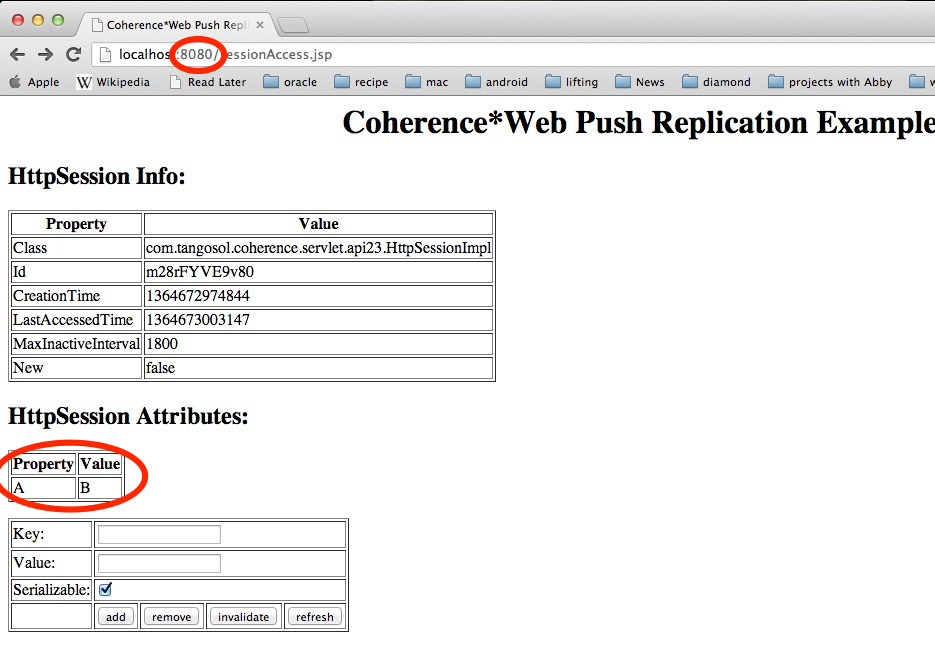
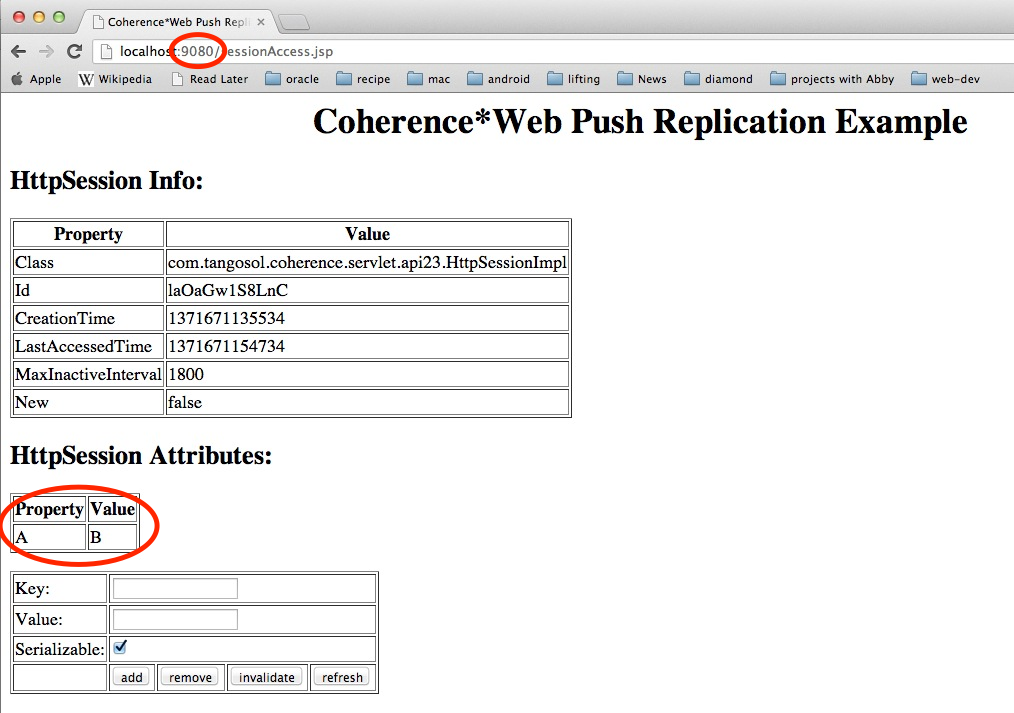
Cleanup the documentation and change the ports to even less standard ports for the test

Changed region(s): [[0.0, 0.2424, 0.5893, 1.0], [0.0, 0.0, 1.0, 0.2121]]

diff --git a/coherence-pushreplicationpattern-web-examples/webapp-tests/src/test/java/com/oracle/coherence/patterns/pushreplication/examples/web/FunctionalTest.java b/coherence-pushreplicationpattern-web-examples/webapp-tests/src/test/java/com/oracle/coherence/patterns/pushreplication/examples/web/FunctionalTest.java
@@ -141,7 +141,7 @@ public class FunctionalTest
 
             // Make initial request to siteA and add a value to the session
             WebResponse response = DeferredHelper.ensure(new DeferredWebResponse(wc,
-                                                                                 "http://localhost:8080/sessionAccess.jsp"),
+                                                                                 "http://localhost:9080/sessionAccess.jsp"),
                                                          60,
                                                          TimeUnit.SECONDS);
 
@@ -160,7 +160,7 @@ public class FunctionalTest
             // Now make a request to the siteB, validate our session data is there and add another value
             DeferredAssert.assertThat("First set of session variables",
                                       new DeferredRowCount(wc,
-                                                           "http://localhost:9080/sessionAccess.jsp"),
+                                                           "http://localhost:10080/sessionAccess.jsp"),
                                       Matchers.equalTo(2),
                                       60,
                                       TimeUnit.SECONDS);
@@ -188,12 +188,12 @@ public class FunctionalTest
             // Now go back to the original site and make sure everything replicated properly
             DeferredAssert.assertThat("First set of session variables",
                                       new DeferredRowCount(wc,
-                                                           "http://localhost:8080/sessionAccess.jsp"),
+                                                           "http://localhost:9080/sessionAccess.jsp"),
                                       Matchers.equalTo(3),
                                       60,
                                       TimeUnit.SECONDS);
 
-            response = wc.getResponse("http://localhost:8080/sessionAccess.jsp");
+            response = wc.getResponse("http://localhost:9080/sessionAccess.jsp");
             table    = response.getTableWithID("HttpSessionAttributes");
 
             assertEquals("key", "A", table.getCellAsText(1, 0));
